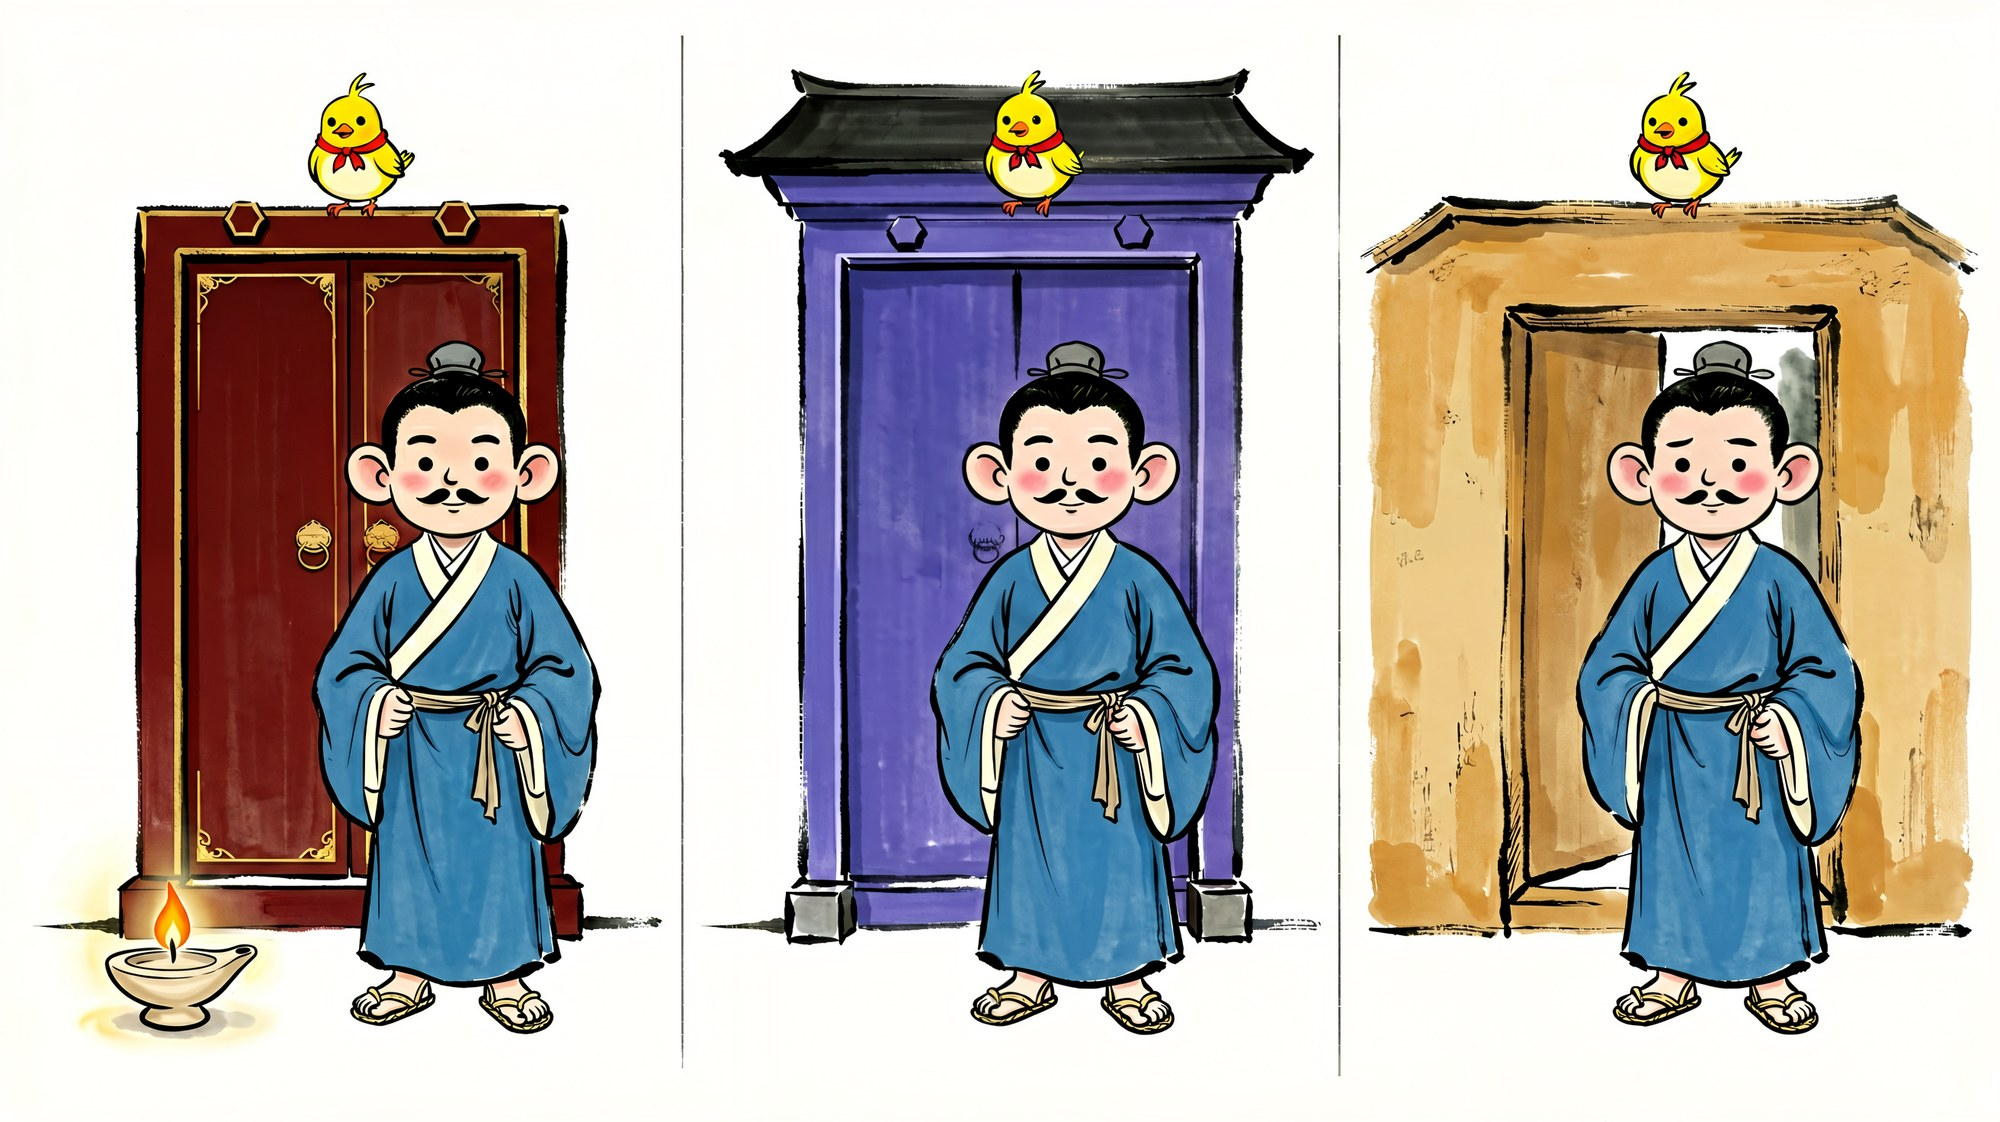
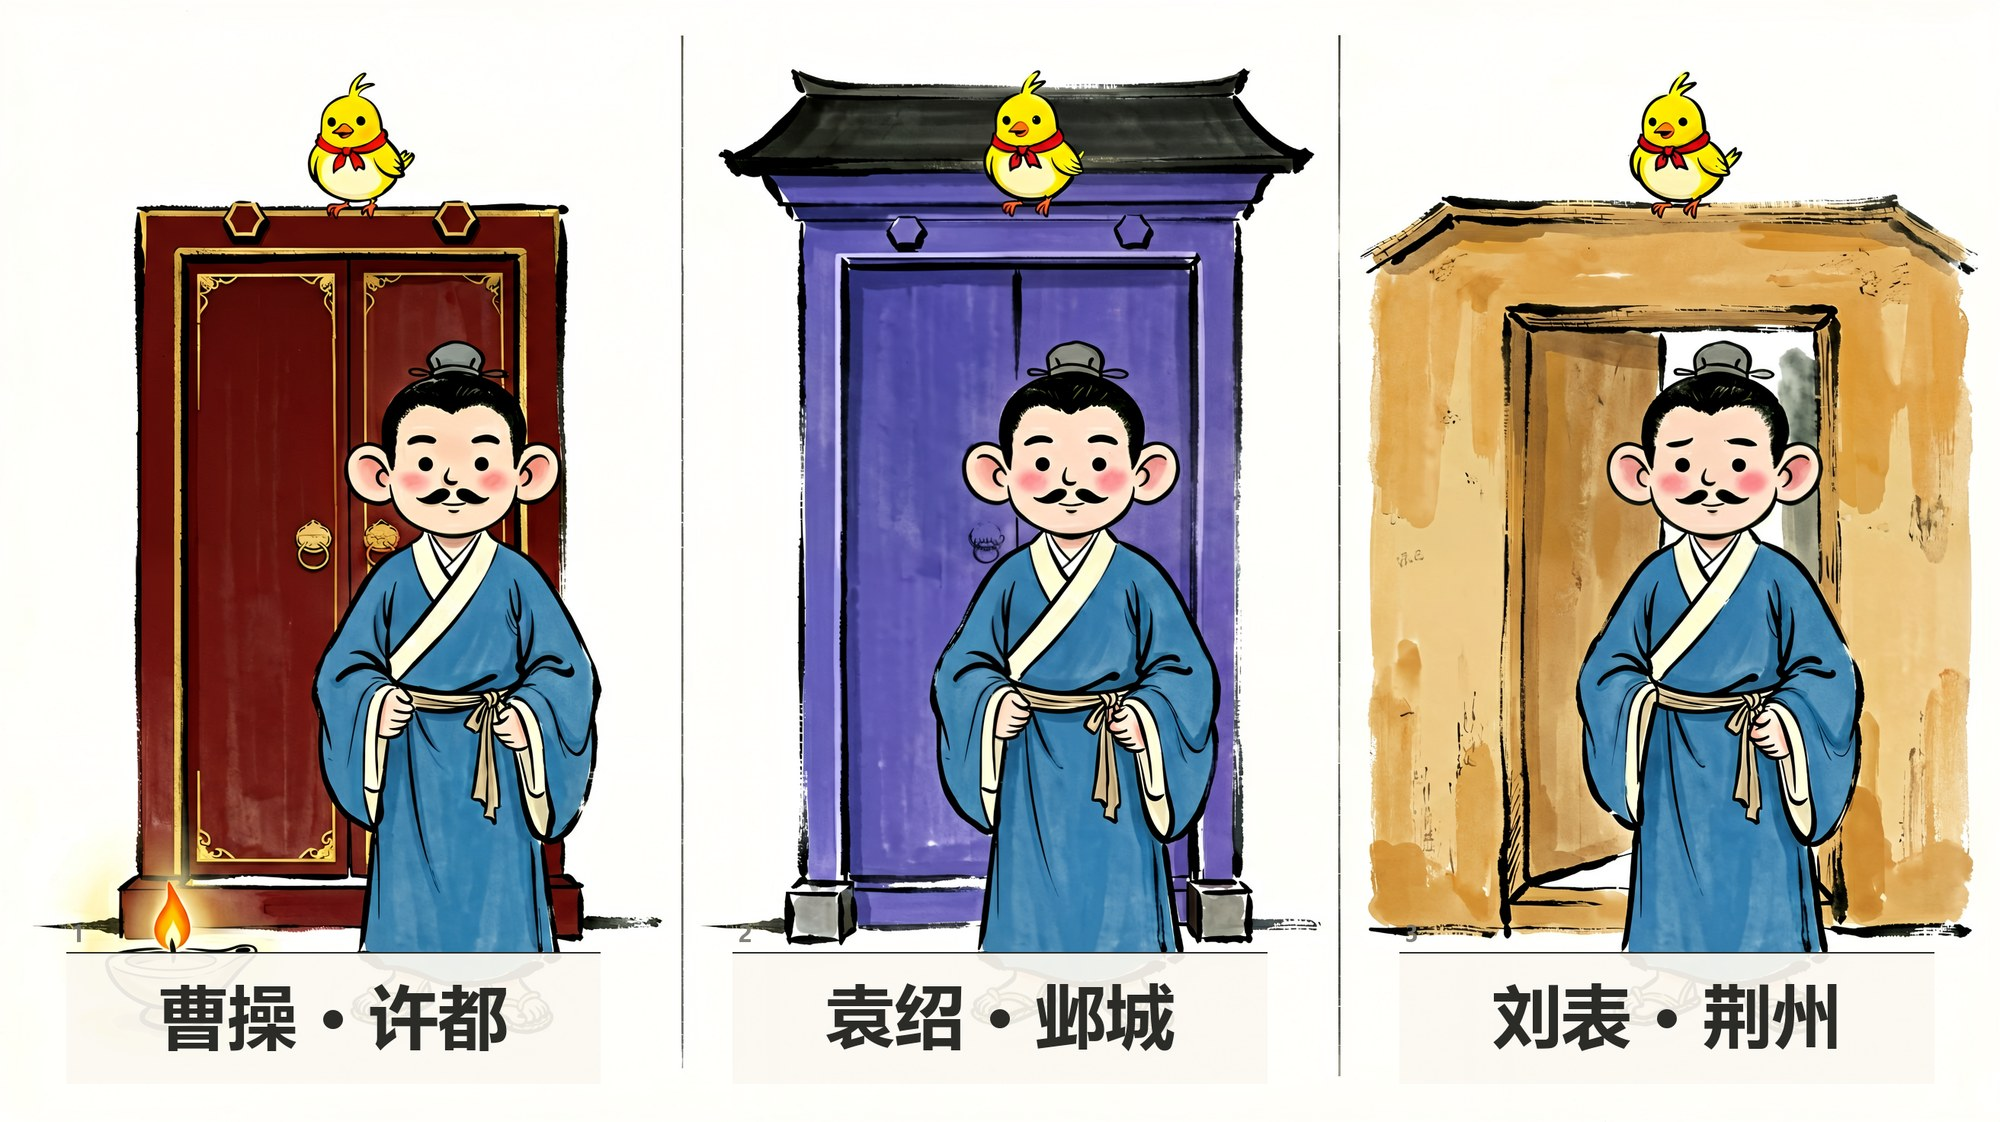
feat: P3改桃园三结义/P5加地名标签/P7加书童/P9加冕冠与刘字旗/P10加刘禅

Changed region(s): [[0.031, 0.8422, 0.279, 0.9358], [0.744, 0.8422, 0.93, 0.9358], [0.403, 0.8422, 0.589, 0.9358]]

diff --git a/index.html b/index.html
@@ -54,7 +54,7 @@
 <div id="stage">
 <div class="slide" data-n="1"><img src="pages/01-cover.jpg" alt="封面" decoding="async"><div class="titlecard"><div class="kicker">乐乐小主播</div><h1>大耳朵刘玄德</h1><div class="sub">三十七年不放弃</div></div><div class="cap"><h2><span class="n">01</span>封面</h2></div><div class="notes"><div class="cue">动作提示：站定，微笑，看观众</div><div class="say">大家好，我是乐乐小主播 ×××。今天的故事叫《大耳朵刘玄德——三十七年不放弃》。</div></div></div>
 <div class="slide" data-n="2"><img src="pages/02-tree-wish.jpg" alt="穷孩子与大桑树" decoding="async"><div class="cap"><h2><span class="n">02</span>穷孩子与大桑树</h2></div><div class="notes"><div class="cue">动作提示：翻页时手指向前上方（指树）；说“你们谁能做到”时自己伸手比一比</div><div class="say">很久以前有个小男孩叫刘备。他很小就没了爸爸，家里很穷，天天和妈妈一起编草鞋、编席子，换米吃。（停一拍）他家院子里有一棵大桑树，像一把大伞。他指着树说：「等我长大，一定要坐上这样的大车！」（停一拍，转向小朋友）书上还说，他长大以后个子很高，耳朵很大，胳膊特别长，手垂下来能到膝盖——你们谁能做到呀？</div></div></div>
-<div class="slide" data-n="3"><img src="pages/03-friends-set-out.jpg" alt="两个好朋友，二十四岁出发" decoding="async"><div class="cap"><h2><span class="n">03</span>两个好朋友，二十四岁出发</h2></div><div class="notes"><div class="cue">动作提示：迈一步，做“出发”的动作</div><div class="say">长大以后，他认识了两个好朋友，关羽和张飞，好得像亲兄弟。二十四岁那年，他带着他们走出家门：我要做一件大事！</div></div></div>
+<div class="slide" data-n="3"><img src="pages/03-peach-garden.jpg" alt="两个好朋友，二十四岁出发" decoding="async"><div class="cap"><h2><span class="n">03</span>两个好朋友，二十四岁出发</h2></div><div class="notes"><div class="cue">动作提示：迈一步，做“出发”的动作</div><div class="say">长大以后，他认识了两个好朋友，关羽和张飞，好得像亲兄弟。二十四岁那年，他带着他们走出家门：我要做一件大事！</div></div></div>
 <div class="slide" data-n="4"><img src="pages/04-lost-xuzhou.jpg" alt="第一次摔跤：家没了" decoding="async"><div class="cap"><h2><span class="n">04</span>第一次摔跤：家没了</h2></div><div class="notes"><div class="cue">动作提示：语气放低</div><div class="say">可是打了好多年，好不容易当上徐州的主人，家却被人偷走了。他只好从头再来。</div></div></div>
 <div class="slide" data-n="5"><img src="pages/05-three-doorways.jpg" alt="到处借住的人" decoding="async"><div class="cap"><h2><span class="n">05</span>到处借住的人</h2></div><div class="notes"><div class="cue">动作提示：伸三根手指：曹操、袁绍、刘表</div><div class="say">他去投靠别人：跟过曹操，跟过袁绍，跟过刘表。走到哪里，都住在别人的屋檐下。</div></div></div>
 <div class="slide" data-n="6"><img src="pages/06-tears.jpg" alt="四十七岁的眼泪" decoding="async"><div class="cap"><h2><span class="n">06</span>四十七岁的眼泪</h2></div><div class="notes"><div class="cue">动作提示：全片最慢最轻的一页，停一拍再说</div><div class="say">四十七岁那年，他摸到自己大腿上长了肉，哭了。他说：「日子一天天过去，我的大事还没有做成啊！」</div></div></div>
